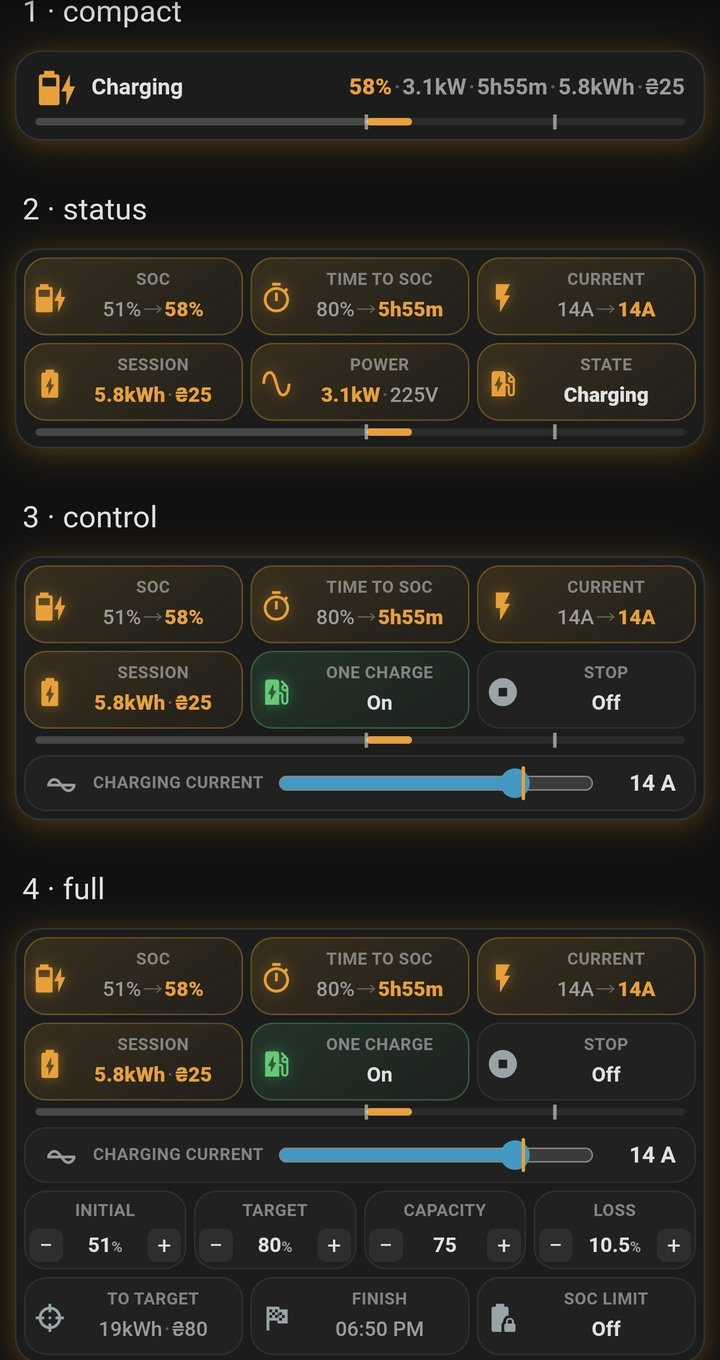
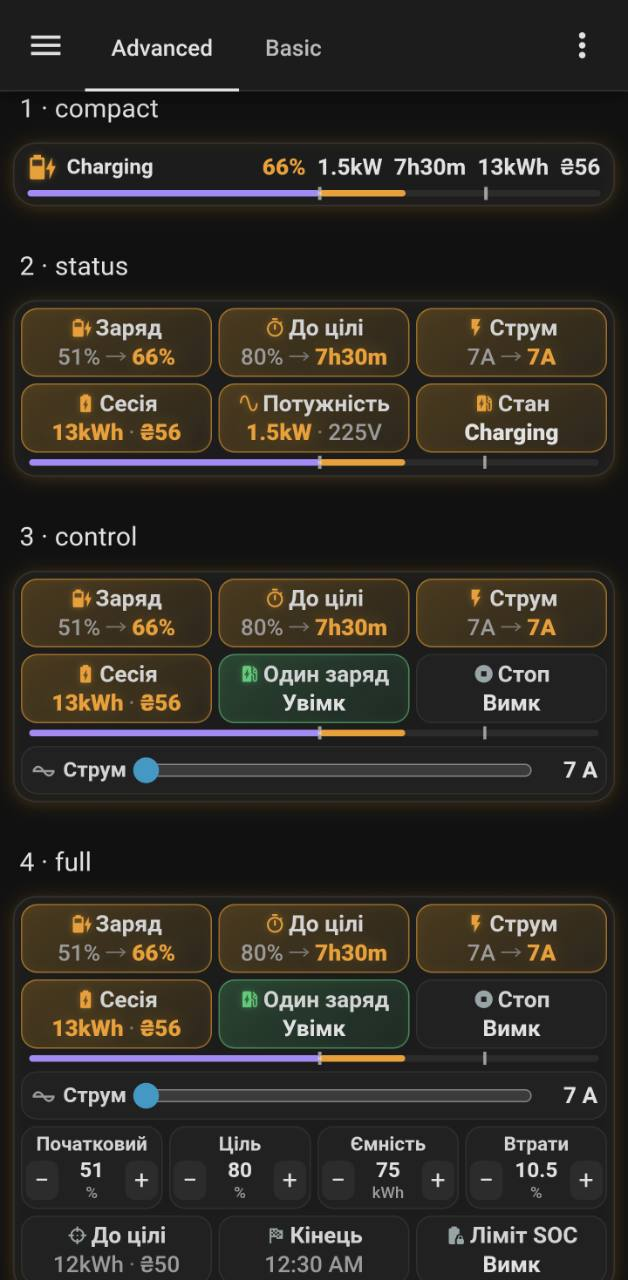
Refresh Eveus card screenshots

diff --git a/CHANGELOG.md b/CHANGELOG.md
@@ -5,6 +5,11 @@
 ### 🔧 Changed
 - **More readable dashboard cards in less space.** Larger centred labels and values, tighter spacing and wrapping keep every reading visible on narrow cards. Charging adds brighter pulses and moving highlights without restarting the animation as readings update; the SOC bar now distinguishes the charge present at the start from energy added during the session and respects reduced-motion preferences.
 
+  <p>
+    <img alt="Eveus card — Advanced mode" src="docs/images/card-advanced.jpg" width="49%">
+    <img alt="Eveus card — Basic mode" src="docs/images/card-basic.jpg" width="49%">
+  </p>
+
 ## 4.23.0 - 2026-09-19
 
 ### ✨ Added
